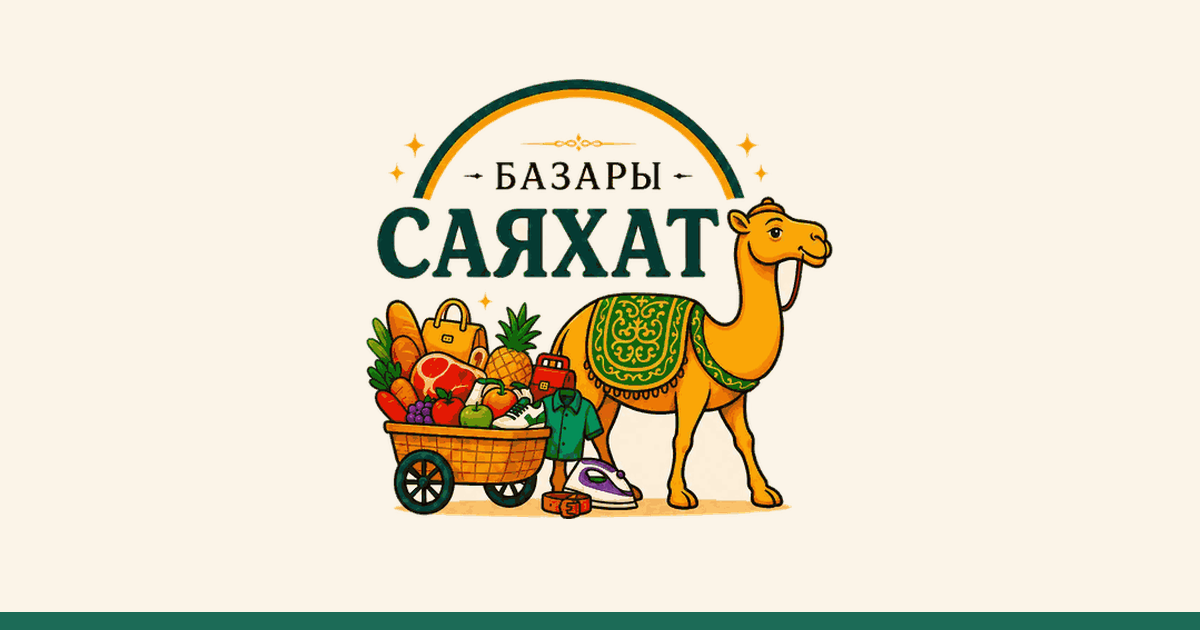
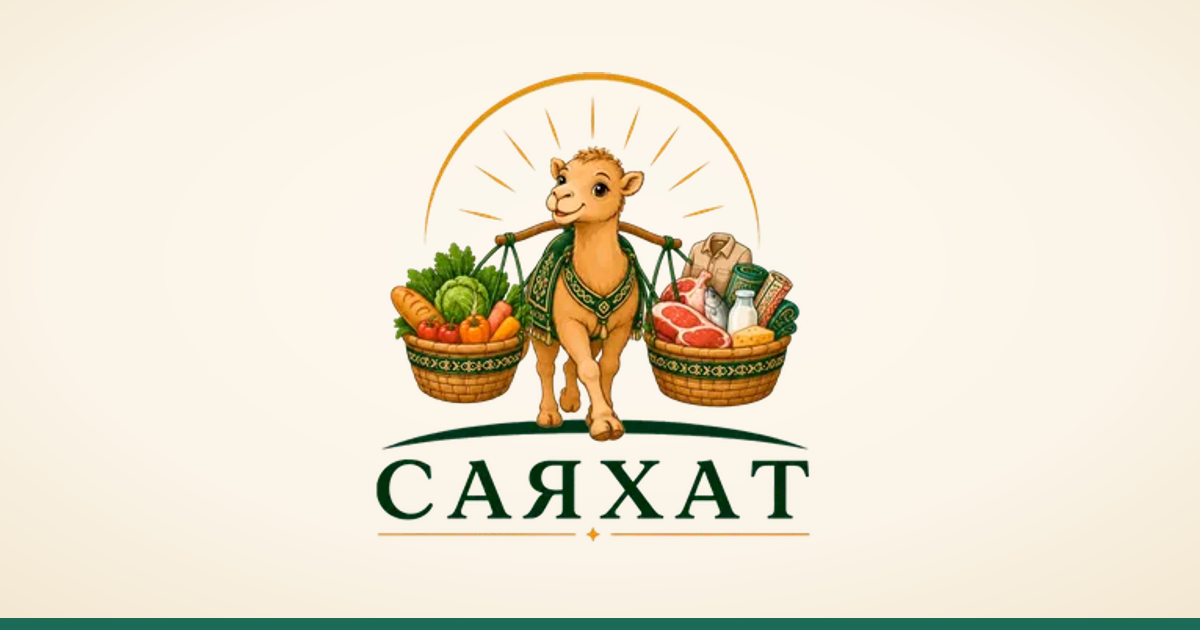
v3.2.6

Changed region(s): [[0.3083, 0.0905, 0.7092, 0.8746], [0.0, 0.9651, 1.0, 0.9952]]

diff --git a/src/components/CatalogSection.tsx b/src/components/CatalogSection.tsx
@@ -145,7 +145,6 @@ export function CatalogSection({ catalogTitle, categories, lang, ui }: Props) {
   // Так подвал и «свободные места» достижимы за пару скроллов.
   const visible = shown.slice(0, step * (1 + more));
   const rest = shown.length - visible.length;
-  const nextBatch = Math.min(step, rest);
 
   // Смена поискового запроса тоже даёт другой список — сворачиваем сетку.
   // Первый проход пропускаем: иначе сброс затрёт разворот,
@@ -340,10 +339,7 @@ export function CatalogSection({ catalogTitle, categories, lang, ui }: Props) {
           {rest > 0 && (
             <div style={{ display: "flex", justifyContent: "center", marginTop: 26 }}>
               <button className="btn btn--ghost btn--lg" onClick={showMore}>
-                {t(
-                  `Показать ещё ${nextBatch} ${ruPlural(nextBatch, "магазин", "магазина", "магазинов")}`,
-                  `Тағы ${nextBatch} дүкенді көрсету`,
-                )}
+                {t("Показать ещё", "Тағы көрсету")}
                 <svg viewBox="0 0 24 24" fill="none" stroke="currentColor" strokeWidth={2} strokeLinecap="round" strokeLinejoin="round" aria-hidden="true">
                   <path d="M6 9l6 6 6-6" />
                 </svg>